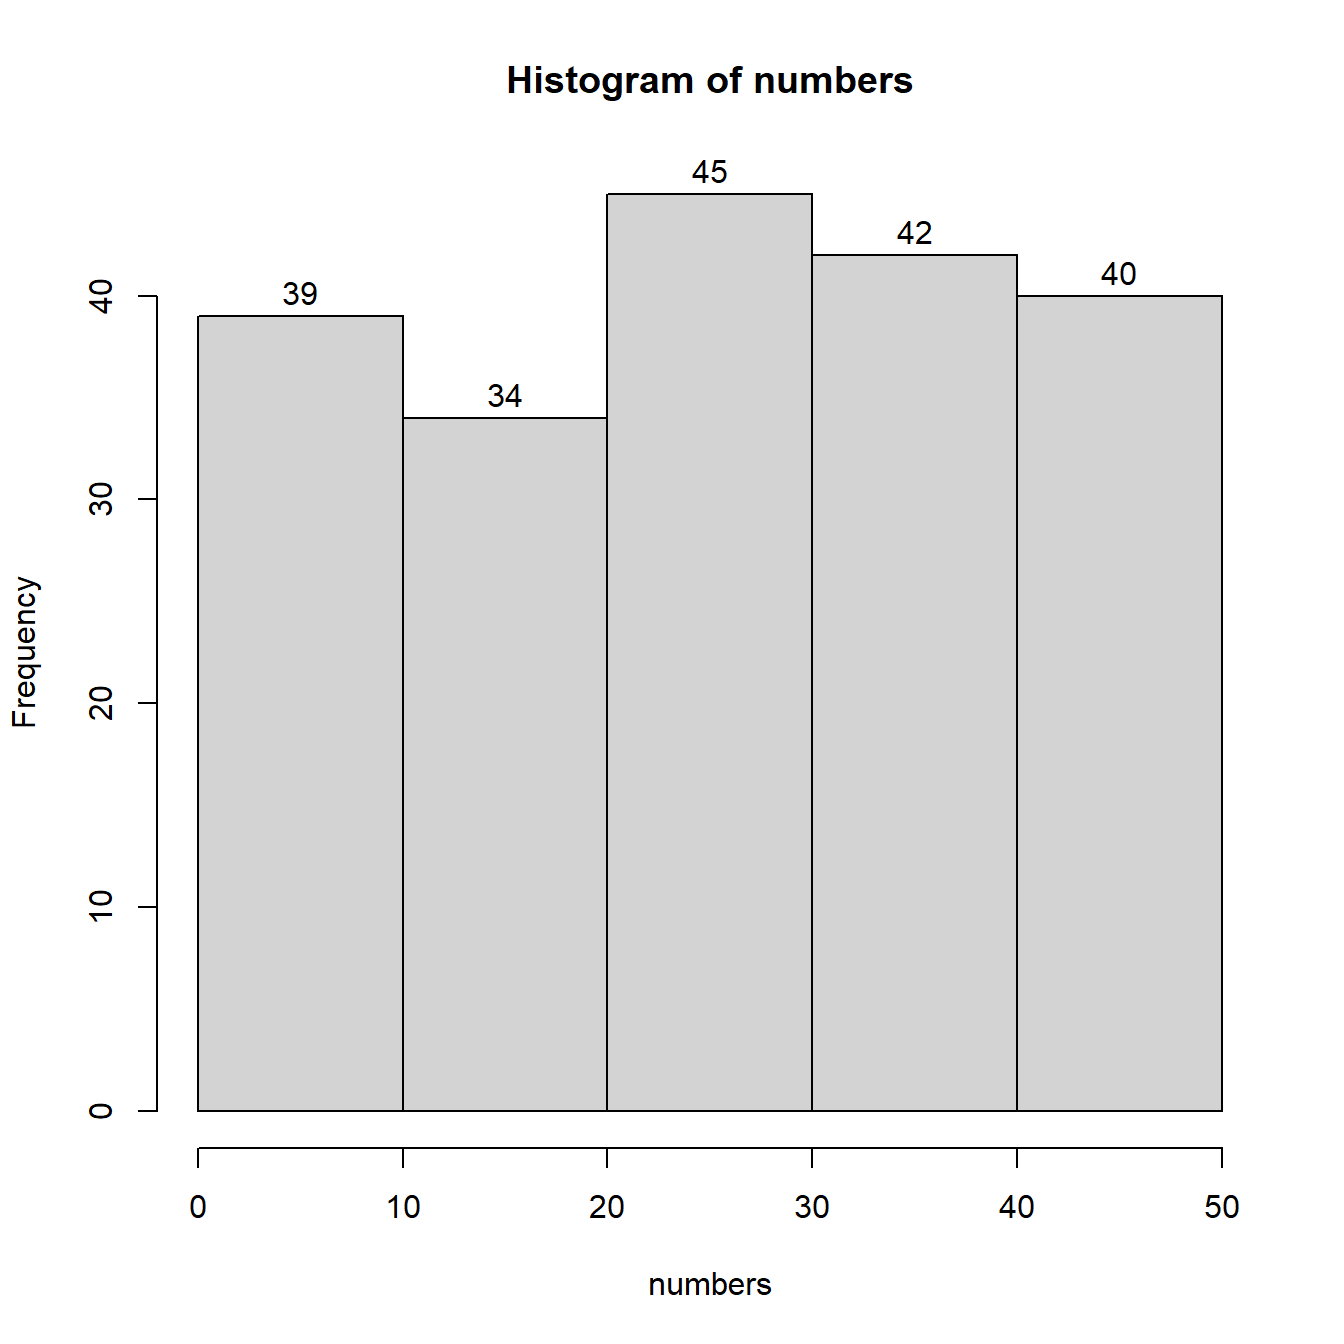
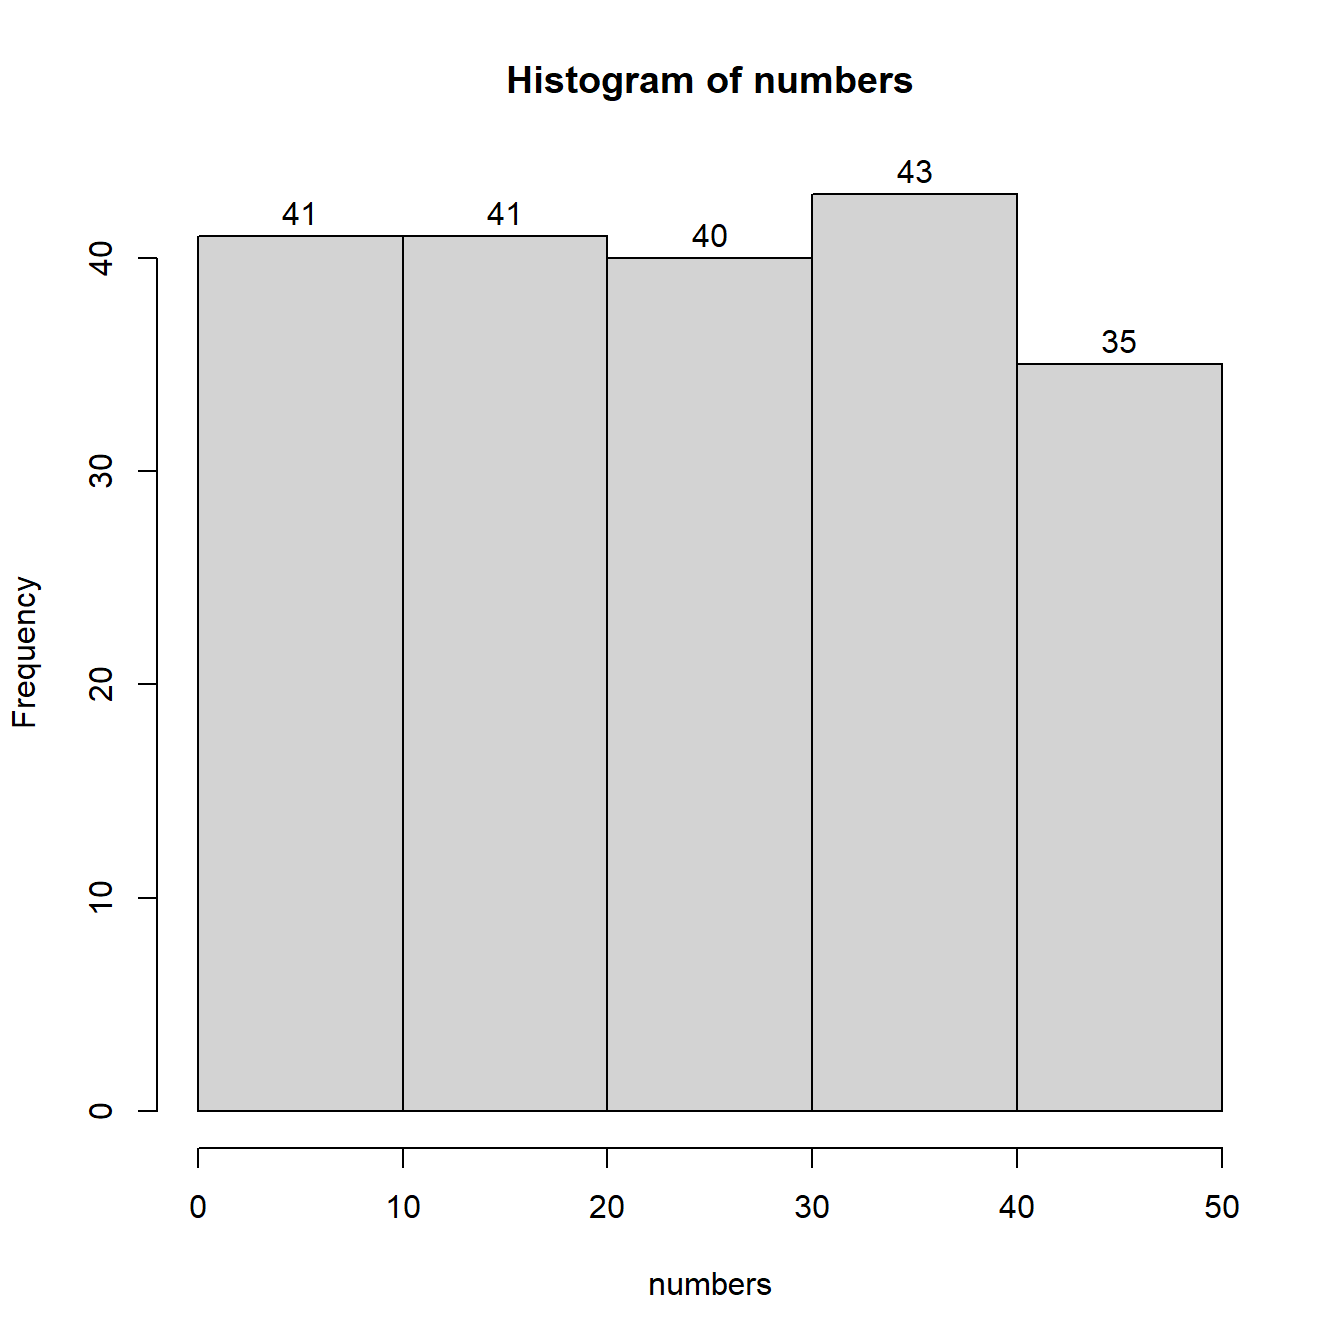
knitted chapters 1 to 3

diff --git a/docs/session2.html b/docs/session2.html
@@ -32,7 +32,7 @@
   
   
 <link rel="prev" href="Intro.html"/>
-<link rel="next" href="methods.html"/>
+<link rel="next" href="session3.html"/>
 <script src="libs/header-attrs-2.4/header-attrs.js"></script>
 <script src="libs/jquery-2.2.3/jquery.min.js"></script>
 <link href="libs/gitbook-2.6.7/css/style.css" rel="stylesheet" />
@@ -160,7 +160,17 @@ code span.wa { color: #60a0b0; font-weight: bold; font-style: italic; } /* Warni
 <li class="chapter" data-level="3.4" data-path="session2.html"><a href="session2.html#frequency-tables-in-r-and-histograms"><i class="fa fa-check"></i><b>3.4</b> Frequency tables in R and Histograms</a></li>
 <li class="chapter" data-level="3.5" data-path="session2.html"><a href="session2.html#exercise-3"><i class="fa fa-check"></i><b>3.5</b> Exercise 3</a></li>
 </ul></li>
-<li class="chapter" data-level="4" data-path="methods.html"><a href="methods.html"><i class="fa fa-check"></i><b>4</b> Methods</a></li>
+<li class="chapter" data-level="4" data-path="session3.html"><a href="session3.html"><i class="fa fa-check"></i><b>4</b> Packages</a>
+<ul>
+<li class="chapter" data-level="4.1" data-path="session3.html"><a href="session3.html#what-we-have-learnt-so-far"><i class="fa fa-check"></i><b>4.1</b> What we have learnt so far</a></li>
+<li class="chapter" data-level="4.2" data-path="session3.html"><a href="session3.html#learning-objectives-2"><i class="fa fa-check"></i><b>4.2</b> Learning objectives</a></li>
+<li class="chapter" data-level="4.3" data-path="session3.html"><a href="session3.html#lets-get-started"><i class="fa fa-check"></i><b>4.3</b> Let’s get started</a></li>
+<li class="chapter" data-level="4.4" data-path="session3.html"><a href="session3.html#measures-of-central-tendency"><i class="fa fa-check"></i><b>4.4</b> Measures of Central Tendency</a></li>
+<li class="chapter" data-level="4.5" data-path="session3.html"><a href="session3.html#adding-a-new-package"><i class="fa fa-check"></i><b>4.5</b> Adding a new package</a></li>
+<li class="chapter" data-level="4.6" data-path="session3.html"><a href="session3.html#to-sum-up"><i class="fa fa-check"></i><b>4.6</b> To sum up</a></li>
+<li class="chapter" data-level="4.7" data-path="session3.html"><a href="session3.html#additional-exercises-spoiler-alert-if-you-get-stuck-the-answers-are-at-the-end-of-the-pdf"><i class="fa fa-check"></i><b>4.7</b> Additional Exercises (spoiler alert: if you get stuck the answers are at the end of the pdf)</a></li>
+<li class="chapter" data-level="4.8" data-path="session3.html"><a href="session3.html#solutions-spoiler-alert"><i class="fa fa-check"></i><b>4.8</b> Solutions: SPOILER ALERT</a></li>
+</ul></li>
 <li class="chapter" data-level="5" data-path="applications.html"><a href="applications.html"><i class="fa fa-check"></i><b>5</b> Applications</a>
 <ul>
 <li class="chapter" data-level="5.1" data-path="applications.html"><a href="applications.html#example-one"><i class="fa fa-check"></i><b>5.1</b> Example one</a></li>
@@ -259,7 +269,7 @@ We will also start working on some basic concepts of statistical exploration of 
 <span id="cb7-3"><a href="session2.html#cb7-3"></a>numbers &lt;-<span class="st"> </span><span class="kw">sample.int</span>(<span class="dv">10</span>, <span class="dv">5</span>, <span class="dt">replace =</span> <span class="ot">TRUE</span>)</span>
 <span id="cb7-4"><a href="session2.html#cb7-4"></a></span>
 <span id="cb7-5"><a href="session2.html#cb7-5"></a>numbers</span></code></pre></div>
-<p>[1] 6 7 2 10 2</p>
+<p>[1] 3 7 9 7 5</p>
 <p>As mentioned above, I used a function called <strong>sample.int()</strong>. A <strong>function</strong> in R, is a mechanism that can perform a task. In this case our function can select an integer number randomly. A function also includes two brackets (). Within these brackets we can specify our own arguments in order to be clear what we want R to do for us when this function is used.</p>
 <p>Notice the number 10, this <strong>argument</strong> instructs our function that we want to pick randomly a number between 1 and 10.</p>
 <p>Notice the second number 5, this <strong>argument</strong> instructs our function to give 5 such numbers from 1 to 10.</p>
@@ -273,14 +283,14 @@ We will also start working on some basic concepts of statistical exploration of 
 <span id="cb8-3"><a href="session2.html#cb8-3"></a><span class="co"># See how my arguments have now changed.</span></span>
 <span id="cb8-4"><a href="session2.html#cb8-4"></a>numbers &lt;-<span class="st"> </span><span class="kw">sample.int</span>(<span class="dv">50</span>, <span class="dv">200</span>, <span class="dt">replace =</span> <span class="ot">TRUE</span>)</span>
 <span id="cb8-5"><a href="session2.html#cb8-5"></a>numbers</span></code></pre></div>
-<p>[1] 24 39 50 4 46 15 40 18 34 33 45 5 46 24 31 13 18 48 29 3 45 45 44 18 35
-[26] 2 28 44 28 30 4 37 30 2 12 36 3 2 1 20 46 43 33 8 12 47 49 37 1 48
-[51] 33 7 22 36 20 41 31 20 29 1 38 8 34 16 16 41 33 5 2 47 44 15 32 7 48
-[76] 18 41 48 12 18 47 28 27 32 29 21 36 29 26 30 1 32 33 45 2 29 46 20 28 1
-[101] 20 7 37 31 23 11 38 30 48 34 30 10 41 12 29 36 6 43 47 38 22 31 43 38 19
-[126] 2 29 43 1 34 9 17 50 39 50 24 40 48 30 12 34 4 35 23 40 7 36 22 12 28
-[151] 25 15 23 5 13 34 28 6 47 23 25 33 32 11 21 15 1 3 40 28 24 25 47 3 38
-[176] 11 44 46 6 2 12 47 2 50 27 17 2 43 28 11 11 15 22 26 3 23 3 26 24 37</p>
+<p>[1] 23 24 14 35 47 8 50 12 15 8 27 31 7 6 30 6 5 9 32 41 14 47 22 17 19
+[26] 40 2 12 33 50 12 38 35 27 50 35 40 15 38 36 30 39 23 40 10 14 33 17 4 9
+[51] 20 41 2 5 31 20 8 35 20 32 24 30 48 5 9 28 34 2 32 17 9 22 38 13 37
+[76] 32 44 5 3 15 9 14 23 12 49 10 33 50 13 9 30 30 41 8 40 47 36 10 11 47
+[101] 38 41 37 11 4 45 36 11 13 45 44 30 44 20 38 6 6 47 23 34 7 31 50 48 29
+[126] 29 25 15 37 13 16 25 39 26 25 17 10 3 23 35 2 45 22 31 25 10 49 45 4 29
+[151] 8 30 38 35 25 15 47 45 11 24 38 25 17 3 1 30 25 11 12 45 1 30 39 25 43
+[176] 44 44 42 3 14 13 37 28 19 28 14 18 47 29 16 10 18 45 32 36 46 26 5 33 21</p>
 <div class="sourceCode" id="cb9"><pre class="sourceCode r"><code class="sourceCode r"><span id="cb9-1"><a href="session2.html#cb9-1"></a><span class="co"># Now we will call a new function to help us group our data.</span></span>
 <span id="cb9-2"><a href="session2.html#cb9-2"></a><span class="co"># First put them in 5 groups. The numbers in c() declare the numbers that define each group.</span></span>
 <span id="cb9-3"><a href="session2.html#cb9-3"></a></span>
@@ -289,7 +299,7 @@ We will also start working on some basic concepts of statistical exploration of 
 <span id="cb9-6"><a href="session2.html#cb9-6"></a><span class="co"># Now I can produce my frequency table using another function</span></span>
 <span id="cb9-7"><a href="session2.html#cb9-7"></a><span class="kw">summary</span>(groups)</span></code></pre></div>
 <p>(0,10] (10,20] (20,30] (30,40] (40,50]
-39 34 45 42 40</p>
+41 41 40 43 35</p>
 <div class="sourceCode" id="cb10"><pre class="sourceCode r"><code class="sourceCode r"><span id="cb10-1"><a href="session2.html#cb10-1"></a><span class="co"># We will now use a new function called hist that creates histograms.</span></span>
 <span id="cb10-2"><a href="session2.html#cb10-2"></a><span class="co"># Note that this function has to work with the original numbers</span></span>
 <span id="cb10-3"><a href="session2.html#cb10-3"></a><span class="co"># and not with the groups.</span></span>
@@ -316,7 +326,7 @@ We will also start working on some basic concepts of statistical exploration of 
         </div>
       </div>
 <a href="Intro.html" class="navigation navigation-prev " aria-label="Previous page"><i class="fa fa-angle-left"></i></a>
-<a href="methods.html" class="navigation navigation-next " aria-label="Next page"><i class="fa fa-angle-right"></i></a>
+<a href="session3.html" class="navigation navigation-next " aria-label="Next page"><i class="fa fa-angle-right"></i></a>
     </div>
   </div>
 <script src="libs/gitbook-2.6.7/js/app.min.js"></script>

diff --git a/docs/index.html b/docs/index.html
@@ -75,7 +75,7 @@
 <ul>
 <li class="chapter" data-level="1.1" data-path="index.html"><a href="index.html#a-few-words"><i class="fa fa-check"></i><b>1.1</b> A few words…</a></li>
 </ul></li>
-<li class="chapter" data-level="2" data-path="Intro.html"><a href="Intro.html"><i class="fa fa-check"></i><b>2</b> Session 1: Introduction</a>
+<li class="chapter" data-level="2" data-path="Intro.html"><a href="Intro.html"><i class="fa fa-check"></i><b>2</b> Introduction</a>
 <ul>
 <li class="chapter" data-level="2.1" data-path="Intro.html"><a href="Intro.html#learning-objectives"><i class="fa fa-check"></i><b>2.1</b> Learning Objectives</a></li>
 <li class="chapter" data-level="2.2" data-path="Intro.html"><a href="Intro.html#getting-things-ready"><i class="fa fa-check"></i><b>2.2</b> Getting Things Ready</a></li>
@@ -89,7 +89,7 @@
 <li class="chapter" data-level="2.7" data-path="Intro.html"><a href="Intro.html#scripts"><i class="fa fa-check"></i><b>2.7</b> Scripts</a></li>
 <li class="chapter" data-level="2.8" data-path="Intro.html"><a href="Intro.html#exercise-2"><i class="fa fa-check"></i><b>2.8</b> Exercise 2</a></li>
 </ul></li>
-<li class="chapter" data-level="3" data-path="session2.html"><a href="session2.html"><i class="fa fa-check"></i><b>3</b> Session 2: Using Vectors and Functions</a>
+<li class="chapter" data-level="3" data-path="session2.html"><a href="session2.html"><i class="fa fa-check"></i><b>3</b> Using Vectors and Functions</a>
 <ul>
 <li class="chapter" data-level="3.1" data-path="session2.html"><a href="session2.html#learning-objectives-1"><i class="fa fa-check"></i><b>3.1</b> Learning Objectives</a></li>
 <li class="chapter" data-level="3.2" data-path="session2.html"><a href="session2.html#vectors"><i class="fa fa-check"></i><b>3.2</b> Vectors</a></li>
@@ -97,7 +97,17 @@
 <li class="chapter" data-level="3.4" data-path="session2.html"><a href="session2.html#frequency-tables-in-r-and-histograms"><i class="fa fa-check"></i><b>3.4</b> Frequency tables in R and Histograms</a></li>
 <li class="chapter" data-level="3.5" data-path="session2.html"><a href="session2.html#exercise-3"><i class="fa fa-check"></i><b>3.5</b> Exercise 3</a></li>
 </ul></li>
-<li class="chapter" data-level="4" data-path="methods.html"><a href="methods.html"><i class="fa fa-check"></i><b>4</b> Methods</a></li>
+<li class="chapter" data-level="4" data-path="session3.html"><a href="session3.html"><i class="fa fa-check"></i><b>4</b> Packages</a>
+<ul>
+<li class="chapter" data-level="4.1" data-path="session3.html"><a href="session3.html#what-we-have-learnt-so-far"><i class="fa fa-check"></i><b>4.1</b> What we have learnt so far</a></li>
+<li class="chapter" data-level="4.2" data-path="session3.html"><a href="session3.html#learning-objectives-2"><i class="fa fa-check"></i><b>4.2</b> Learning objectives</a></li>
+<li class="chapter" data-level="4.3" data-path="session3.html"><a href="session3.html#lets-get-started"><i class="fa fa-check"></i><b>4.3</b> Let’s get started</a></li>
+<li class="chapter" data-level="4.4" data-path="session3.html"><a href="session3.html#measures-of-central-tendency"><i class="fa fa-check"></i><b>4.4</b> Measures of Central Tendency</a></li>
+<li class="chapter" data-level="4.5" data-path="session3.html"><a href="session3.html#adding-a-new-package"><i class="fa fa-check"></i><b>4.5</b> Adding a new package</a></li>
+<li class="chapter" data-level="4.6" data-path="session3.html"><a href="session3.html#to-sum-up"><i class="fa fa-check"></i><b>4.6</b> To sum up</a></li>
+<li class="chapter" data-level="4.7" data-path="session3.html"><a href="session3.html#additional-exercises-spoiler-alert-if-you-get-stuck-the-answers-are-at-the-end-of-the-pdf"><i class="fa fa-check"></i><b>4.7</b> Additional Exercises (spoiler alert: if you get stuck the answers are at the end of the pdf)</a></li>
+<li class="chapter" data-level="4.8" data-path="session3.html"><a href="session3.html#solutions-spoiler-alert"><i class="fa fa-check"></i><b>4.8</b> Solutions: SPOILER ALERT</a></li>
+</ul></li>
 <li class="chapter" data-level="5" data-path="applications.html"><a href="applications.html"><i class="fa fa-check"></i><b>5</b> Applications</a>
 <ul>
 <li class="chapter" data-level="5.1" data-path="applications.html"><a href="applications.html#example-one"><i class="fa fa-check"></i><b>5.1</b> Example one</a></li>

diff --git a/docs/intro.html b/docs/intro.html
@@ -152,7 +152,7 @@ code span.wa { color: #60a0b0; font-weight: bold; font-style: italic; } /* Warni
 <li class="chapter" data-level="2.7" data-path="Intro.html"><a href="Intro.html#scripts"><i class="fa fa-check"></i><b>2.7</b> Scripts</a></li>
 <li class="chapter" data-level="2.8" data-path="Intro.html"><a href="Intro.html#exercise-2"><i class="fa fa-check"></i><b>2.8</b> Exercise 2</a></li>
 </ul></li>
-<li class="chapter" data-level="3" data-path="session2.html"><a href="session2.html"><i class="fa fa-check"></i><b>3</b> Session 2: Using Vectors and Functions</a>
+<li class="chapter" data-level="3" data-path="session2.html"><a href="session2.html"><i class="fa fa-check"></i><b>3</b> Using Vectors and Functions</a>
 <ul>
 <li class="chapter" data-level="3.1" data-path="session2.html"><a href="session2.html#learning-objectives-1"><i class="fa fa-check"></i><b>3.1</b> Learning Objectives</a></li>
 <li class="chapter" data-level="3.2" data-path="session2.html"><a href="session2.html#vectors"><i class="fa fa-check"></i><b>3.2</b> Vectors</a></li>
@@ -160,7 +160,17 @@ code span.wa { color: #60a0b0; font-weight: bold; font-style: italic; } /* Warni
 <li class="chapter" data-level="3.4" data-path="session2.html"><a href="session2.html#frequency-tables-in-r-and-histograms"><i class="fa fa-check"></i><b>3.4</b> Frequency tables in R and Histograms</a></li>
 <li class="chapter" data-level="3.5" data-path="session2.html"><a href="session2.html#exercise-3"><i class="fa fa-check"></i><b>3.5</b> Exercise 3</a></li>
 </ul></li>
-<li class="chapter" data-level="4" data-path="methods.html"><a href="methods.html"><i class="fa fa-check"></i><b>4</b> Methods</a></li>
+<li class="chapter" data-level="4" data-path="session3.html"><a href="session3.html"><i class="fa fa-check"></i><b>4</b> Packages</a>
+<ul>
+<li class="chapter" data-level="4.1" data-path="session3.html"><a href="session3.html#what-we-have-learnt-so-far"><i class="fa fa-check"></i><b>4.1</b> What we have learnt so far</a></li>
+<li class="chapter" data-level="4.2" data-path="session3.html"><a href="session3.html#learning-objectives-2"><i class="fa fa-check"></i><b>4.2</b> Learning objectives</a></li>
+<li class="chapter" data-level="4.3" data-path="session3.html"><a href="session3.html#lets-get-started"><i class="fa fa-check"></i><b>4.3</b> Let’s get started</a></li>
+<li class="chapter" data-level="4.4" data-path="session3.html"><a href="session3.html#measures-of-central-tendency"><i class="fa fa-check"></i><b>4.4</b> Measures of Central Tendency</a></li>
+<li class="chapter" data-level="4.5" data-path="session3.html"><a href="session3.html#adding-a-new-package"><i class="fa fa-check"></i><b>4.5</b> Adding a new package</a></li>
+<li class="chapter" data-level="4.6" data-path="session3.html"><a href="session3.html#to-sum-up"><i class="fa fa-check"></i><b>4.6</b> To sum up</a></li>
+<li class="chapter" data-level="4.7" data-path="session3.html"><a href="session3.html#additional-exercises-spoiler-alert-if-you-get-stuck-the-answers-are-at-the-end-of-the-pdf"><i class="fa fa-check"></i><b>4.7</b> Additional Exercises (spoiler alert: if you get stuck the answers are at the end of the pdf)</a></li>
+<li class="chapter" data-level="4.8" data-path="session3.html"><a href="session3.html#solutions-spoiler-alert"><i class="fa fa-check"></i><b>4.8</b> Solutions: SPOILER ALERT</a></li>
+</ul></li>
 <li class="chapter" data-level="5" data-path="applications.html"><a href="applications.html"><i class="fa fa-check"></i><b>5</b> Applications</a>
 <ul>
 <li class="chapter" data-level="5.1" data-path="applications.html"><a href="applications.html#example-one"><i class="fa fa-check"></i><b>5.1</b> Example one</a></li>
